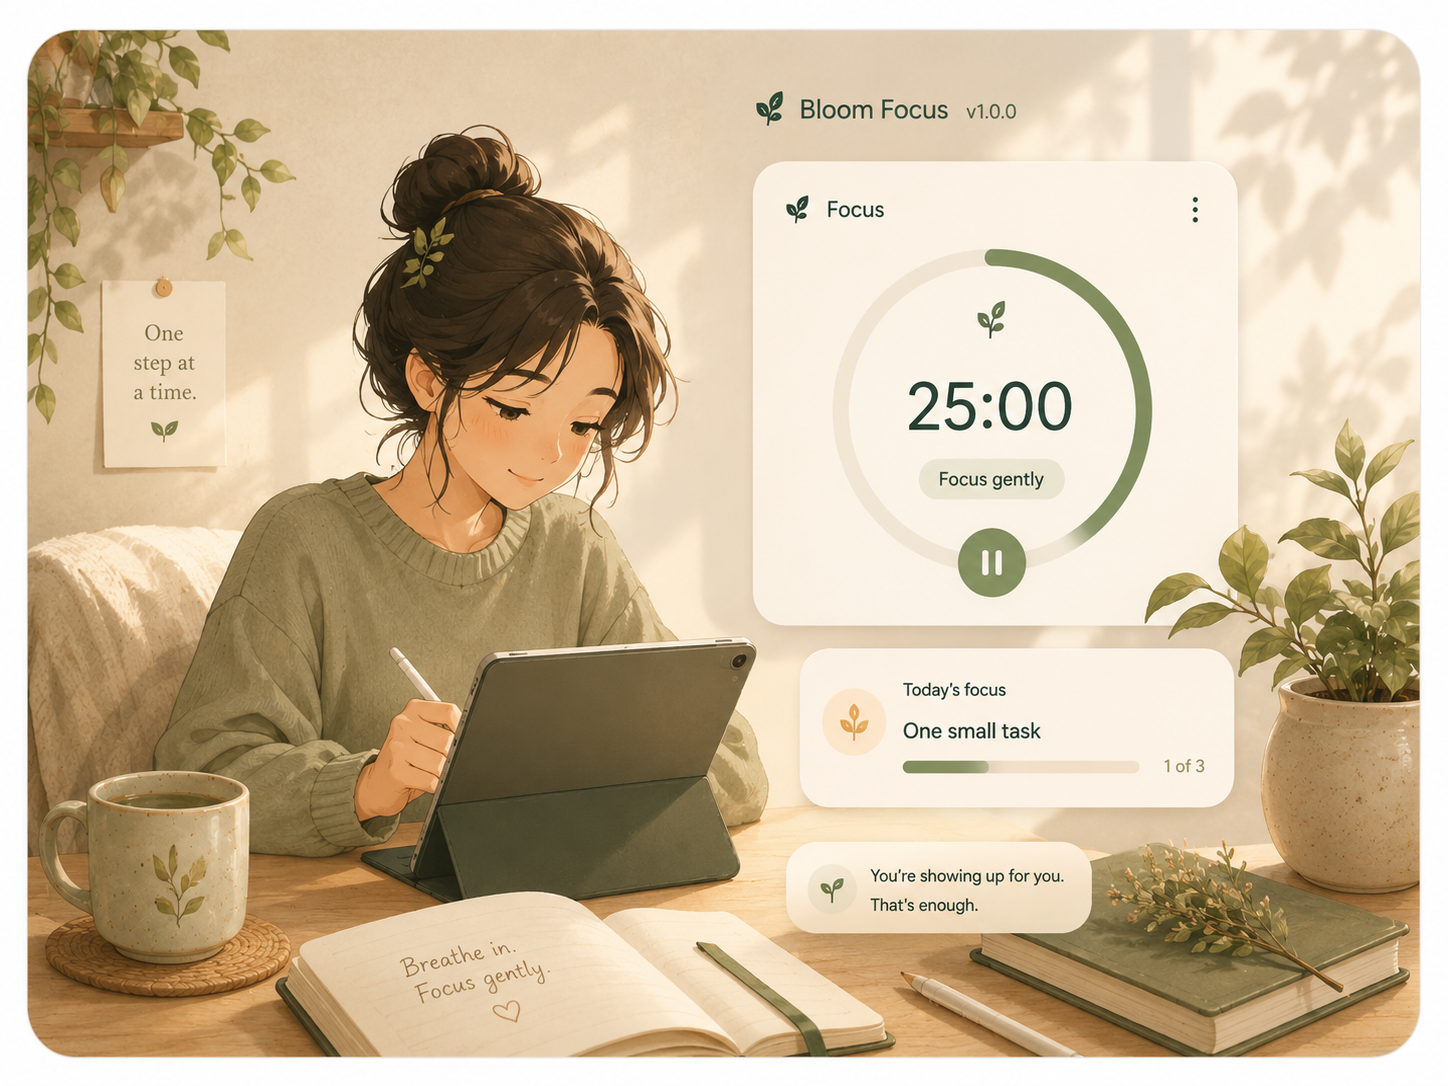
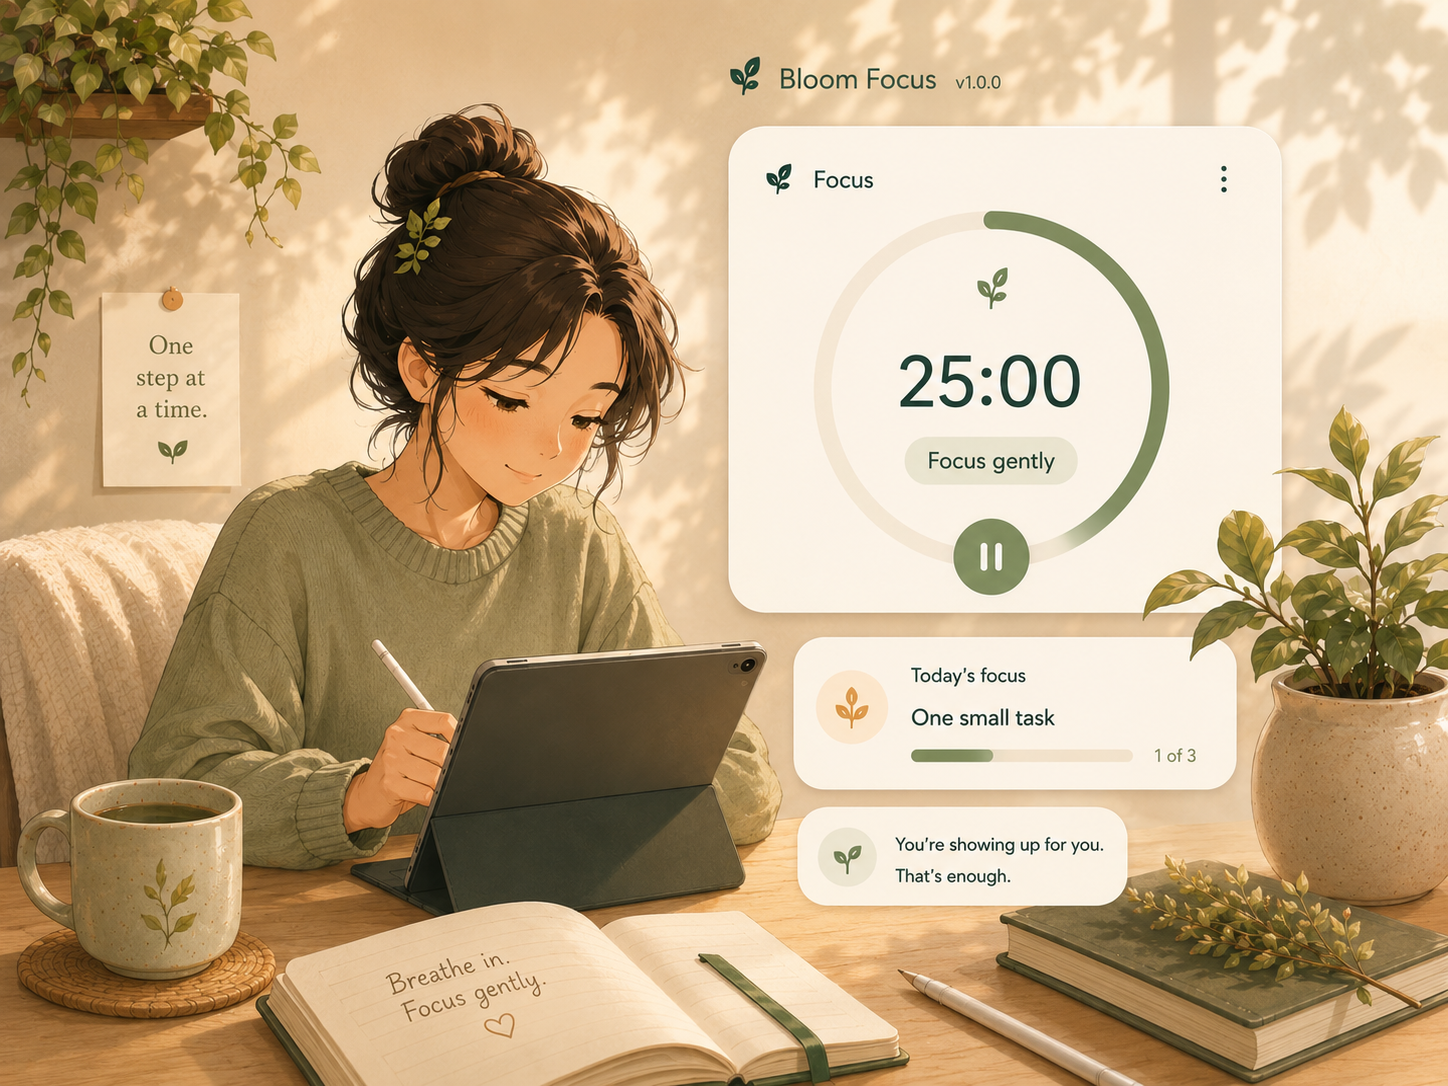
fix: update padding and page fill for Bloom illustrations

diff --git a/src/pages/Progress.jsx b/src/pages/Progress.jsx
@@ -180,6 +180,36 @@ function WeekDay({ dateKey, snapshot, isSelected, isToday, onClick }) {
   )
 }
 
+function ProgressHeroReminder() {
+  return (
+    <div className="hidden h-[110px] overflow-hidden rounded-[1.5rem] border border-orange-100 bg-orange-50/60 p-5 shadow-sm dark:border-white/10 dark:bg-white/5 lg:block">
+      <div className="flex h-full items-center justify-between gap-4">
+        <div>
+          <p className="text-xs font-bold uppercase tracking-[0.1em] text-bloom-mid dark:text-bloom-sage">
+            Bloom reminder
+          </p>
+
+          <h3 className="mt-2 text-xl font-bold text-bloom-forest dark:text-bloom-light">
+            Progress, not perfection.
+          </h3>
+
+          <p className="mt-3 text-xs leading-relaxed text-bloom-forest/60 dark:text-gray-300">
+            Be kind to your mind today.
+          </p>
+        </div>
+      </div>
+
+      <div className="mt-1 flex items-center justify-between gap-4">
+        <div className="text-lg text-peach-400">🧡</div>
+
+        <div className="pointer-events-none text-6xl opacity-80">
+          🌸
+        </div>
+      </div>
+    </div>
+  )
+}
+
 export default function Progress() {
   const { loadDay, syncToday } = useProgressStore()
 
@@ -285,9 +315,9 @@ export default function Progress() {
     <div className="mx-auto flex w-full max-w-7xl flex-col gap-6 overflow-x-hidden pb-28 sm:gap-7 sm:pb-0">
       {/* Hero */}
       <section className="grid gap-4 lg:grid-cols-[minmax(0,1fr)_minmax(340px,500px)]">
-        <div className="relative overflow-hidden rounded-[2rem] border border-bloom-sage/25 bg-white/55 p-5 shadow-sm dark:border-white/10 dark:bg-white/5 sm:p-7">
-          <div className="relative z-10 flex h-full flex-col justify-center">
-            <div className="mb-5 inline-flex w-fit items-center gap-2 rounded-full bg-bloom-light/80 px-3 py-2 text-xs font-bold text-bloom-forest/70 dark:bg-white/10 dark:text-gray-300">
+        <div className="relative overflow-hidden rounded-[2rem] border border-bloom-sage/25 bg-white/55 p-5 shadow-sm dark:border-white/10 dark:bg-white/5 sm:p-6">
+          <div className="relative z-10 flex h-full flex-col justify-start">
+            <div className="mb-3 inline-flex w-fit items-center gap-2 rounded-full bg-bloom-light/80 px-2 py-1.5 text-sm font-bold text-bloom-forest/70 dark:bg-white/10 dark:text-gray-300">
               <span>🌿</span>
               <span>Welcome back</span>
             </div>
@@ -296,11 +326,11 @@ export default function Progress() {
               Progress gently, one small step at a time.
             </h2>
 
-            <p className="mt-5 max-w-xl text-sm leading-relaxed text-bloom-forest/65 dark:text-gray-300 sm:text-base">
+            <p className="mt-3 max-w-xl text-sm leading-relaxed text-bloom-forest/65 dark:text-gray-300 sm:text-base">
               Every effort matters. Keep going at your own pace.
             </p>
 
-            <p className="mt-3 max-w-xl text-sm leading-relaxed text-bloom-forest/65 dark:text-gray-300 sm:text-base">
+            <p className="mt-1 max-w-xl text-sm leading-relaxed text-bloom-forest/65 dark:text-gray-300 sm:text-base">
               You are building a rhythm, not chasing perfection.
             </p>
 
@@ -314,7 +344,7 @@ export default function Progress() {
                   block: "center",
                 })
               }}
-              className="mt-7 w-fit rounded-full bg-bloom-forest px-5 py-3 text-sm font-bold text-bloom-light shadow-sm transition hover:bg-bloom-mid dark:bg-bloom-sage dark:text-bloom-forest"
+              className="mt-24 w-fit rounded-full bg-bloom-forest px-5 py-3 text-sm font-bold text-bloom-light shadow-sm transition hover:bg-bloom-mid dark:bg-bloom-sage dark:text-bloom-forest"
             >
               View weekly overview
             </button>
@@ -324,8 +354,11 @@ export default function Progress() {
             🌸
           </div>
         </div>
-
-        <ProgressHeroImage />
+        
+        <div className="flex flex-col gap-3">
+          <ProgressHeroImage />
+          <ProgressHeroReminder />
+        </div>  
       </section>
 
       {/* Metric cards */}
@@ -538,12 +571,6 @@ export default function Progress() {
           </div>
         </div>
       </section>
-
-      <BloomReminder
-        reminder="Small steps still count."
-        phaseTitle="Progress v1.1.0"
-        phaseDescription="Progress is built through gentle returns, small actions, and rest when needed."
-      />
     </div>
   )
 }

diff --git a/src/pages/Focus.jsx b/src/pages/Focus.jsx
@@ -85,11 +85,11 @@ function FocusIcon() {
 
 function FocusHeroImage() {
   return (
-    <div className="hidden overflow-hidden rounded-[1.75rem] border border-bloom-sage/20 bg-bloom-light/70 p-3 shadow-sm dark:border-white/10 dark:bg-white/10 lg:block lg:w-full">
+    <div className="hidden h-[320px] overflow-hidden rounded-[1.75rem] border border-bloom-sage/20 bg-bloom-light/70 shadow-sm dark:border-white/10 dark:bg-white/10 lg:block lg:w-full">
       <img
         src="/illustrations/bloom-focus.png"
         alt=""
-        className="h-full w-full rounded-[1.4rem] object-contain"
+        className="h-full w-full object-cover object-contain"
       />
     </div>
   )

diff --git a/src/pages/Routines.jsx b/src/pages/Routines.jsx
@@ -71,11 +71,11 @@ function RoutinesIcon() {
 
 function BloomRoutineHeroImage() {
   return (
-    <div className="hidden min-h-[300px] overflow-hidden rounded-[1.75rem] border border-bloom-sage/20 bg-bloom-light/70 p-3 shadow-sm dark:border-white/10 dark:bg-white/10 lg:block lg:w-full">
+    <div className="hidden h-[320px] overflow-hidden rounded-[1.75rem] border border-bloom-sage/20 bg-bloom-light/70 shadow-sm dark:border-white/10 dark:bg-white/10 lg:block lg:w-full">
       <img
         src="/illustrations/bloom-routines.png"
         alt=""
-        className="h-[300px] w-full rounded-[1.4rem] object-contain"
+        className="h-full w-full object-cover object-contain"
       />
     </div>
   )